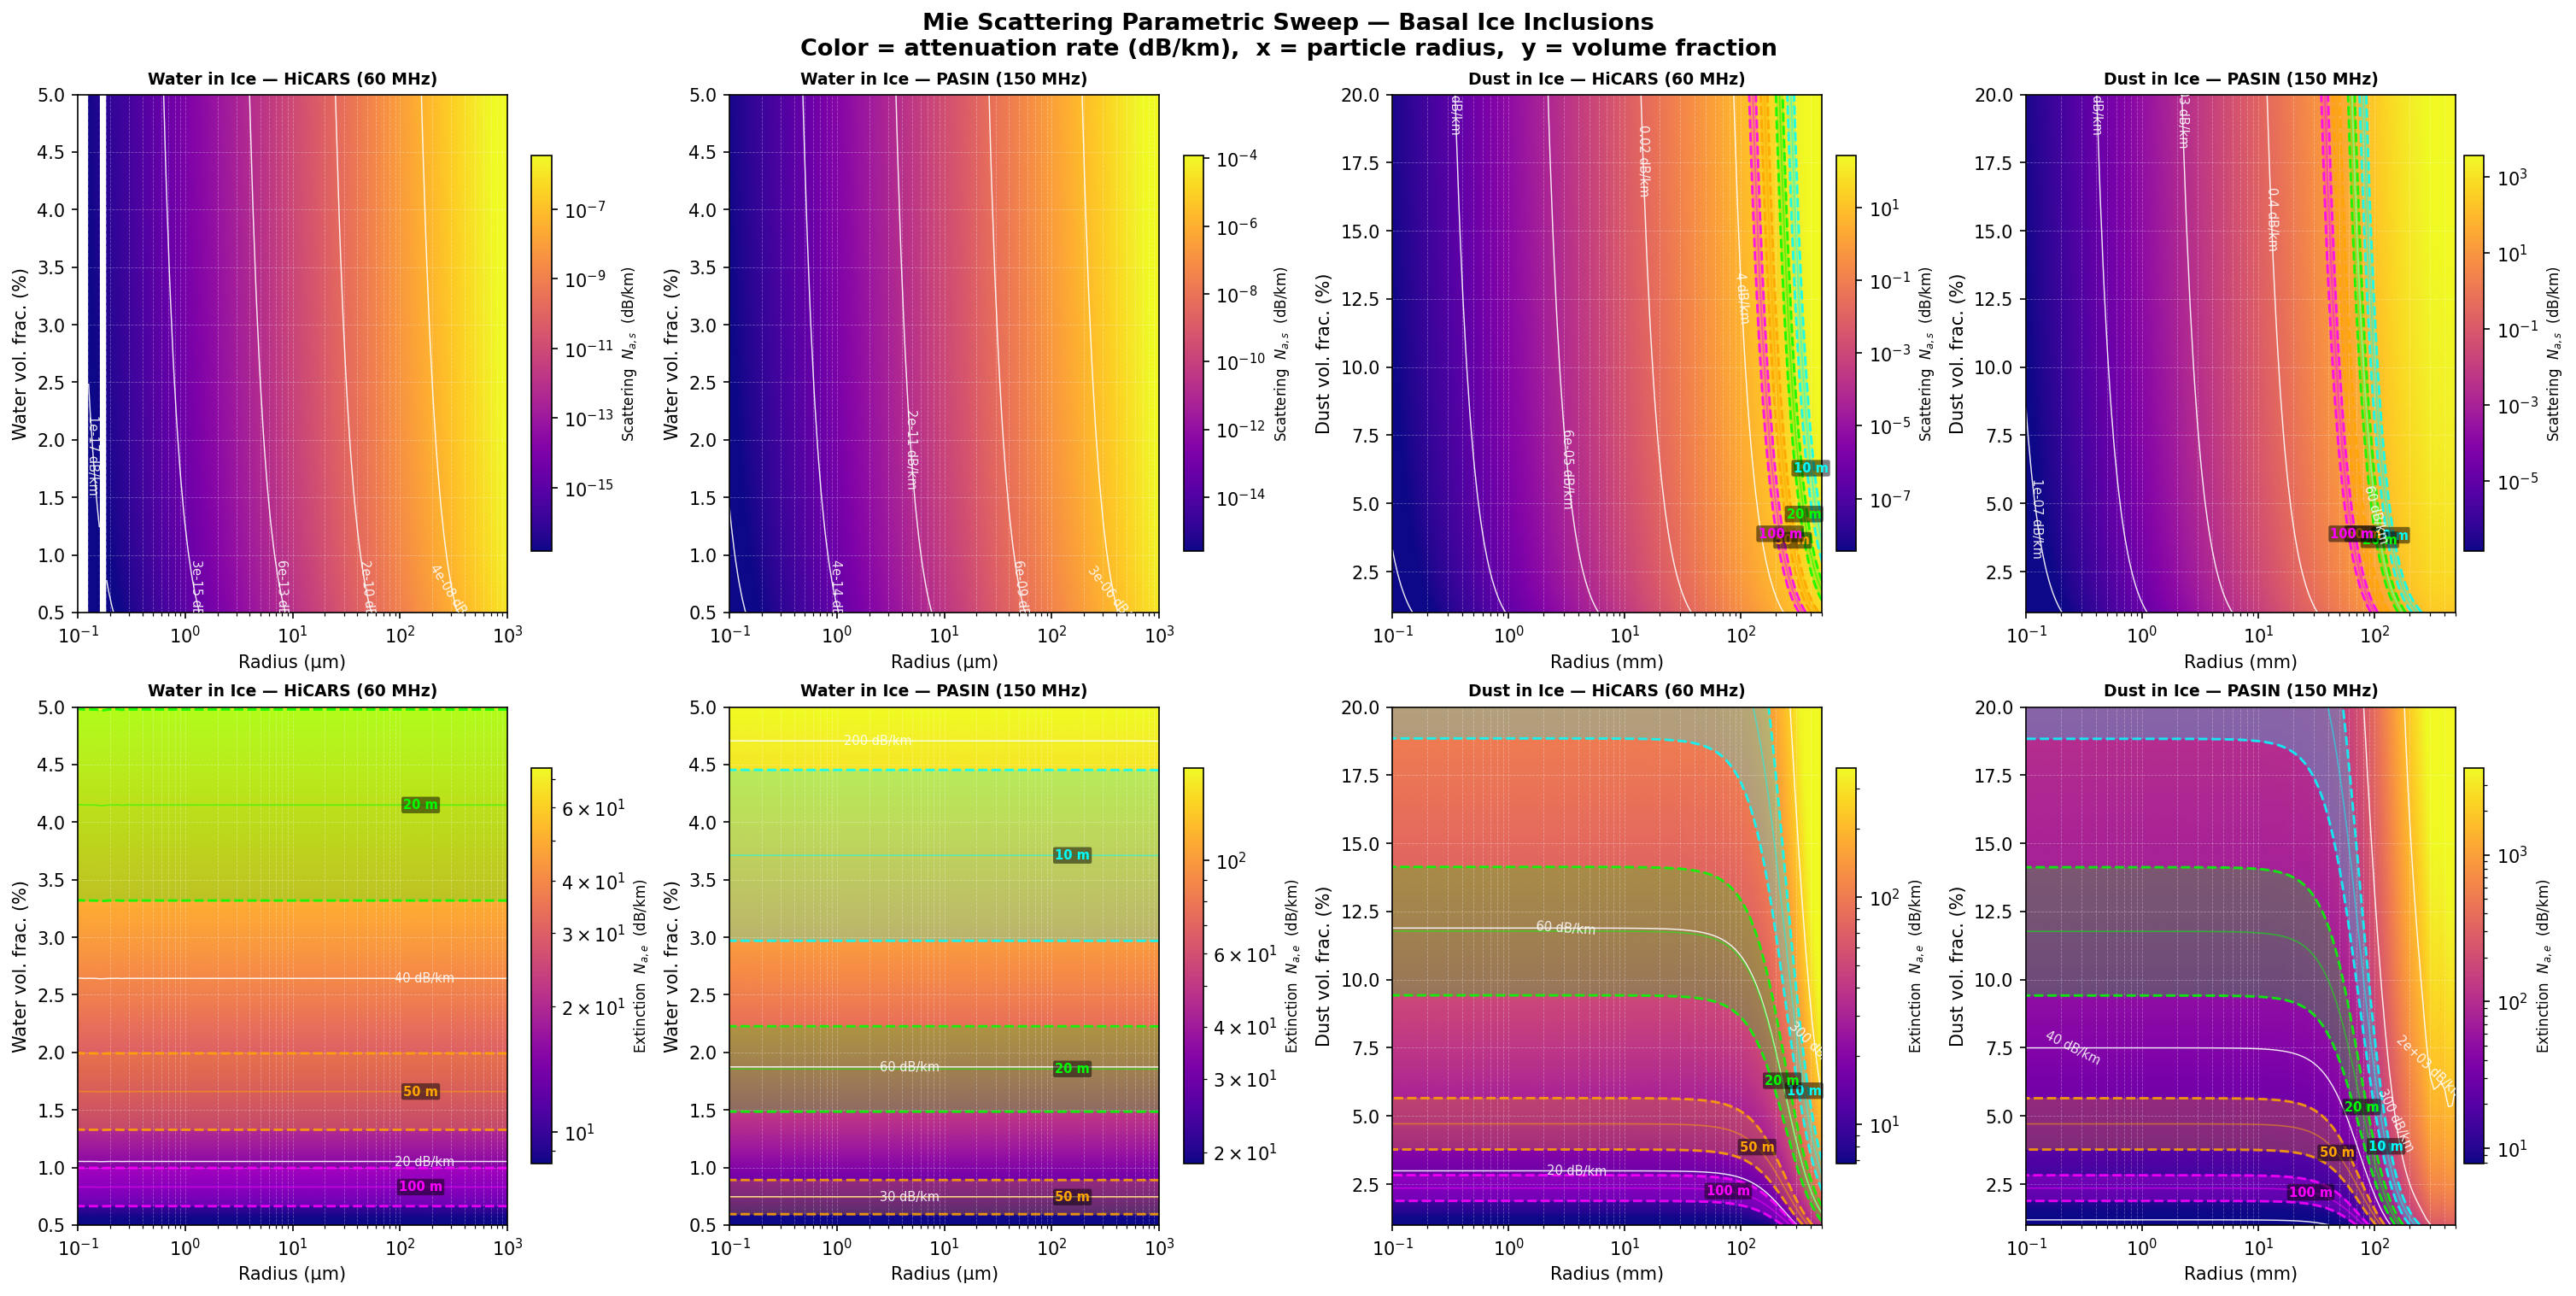
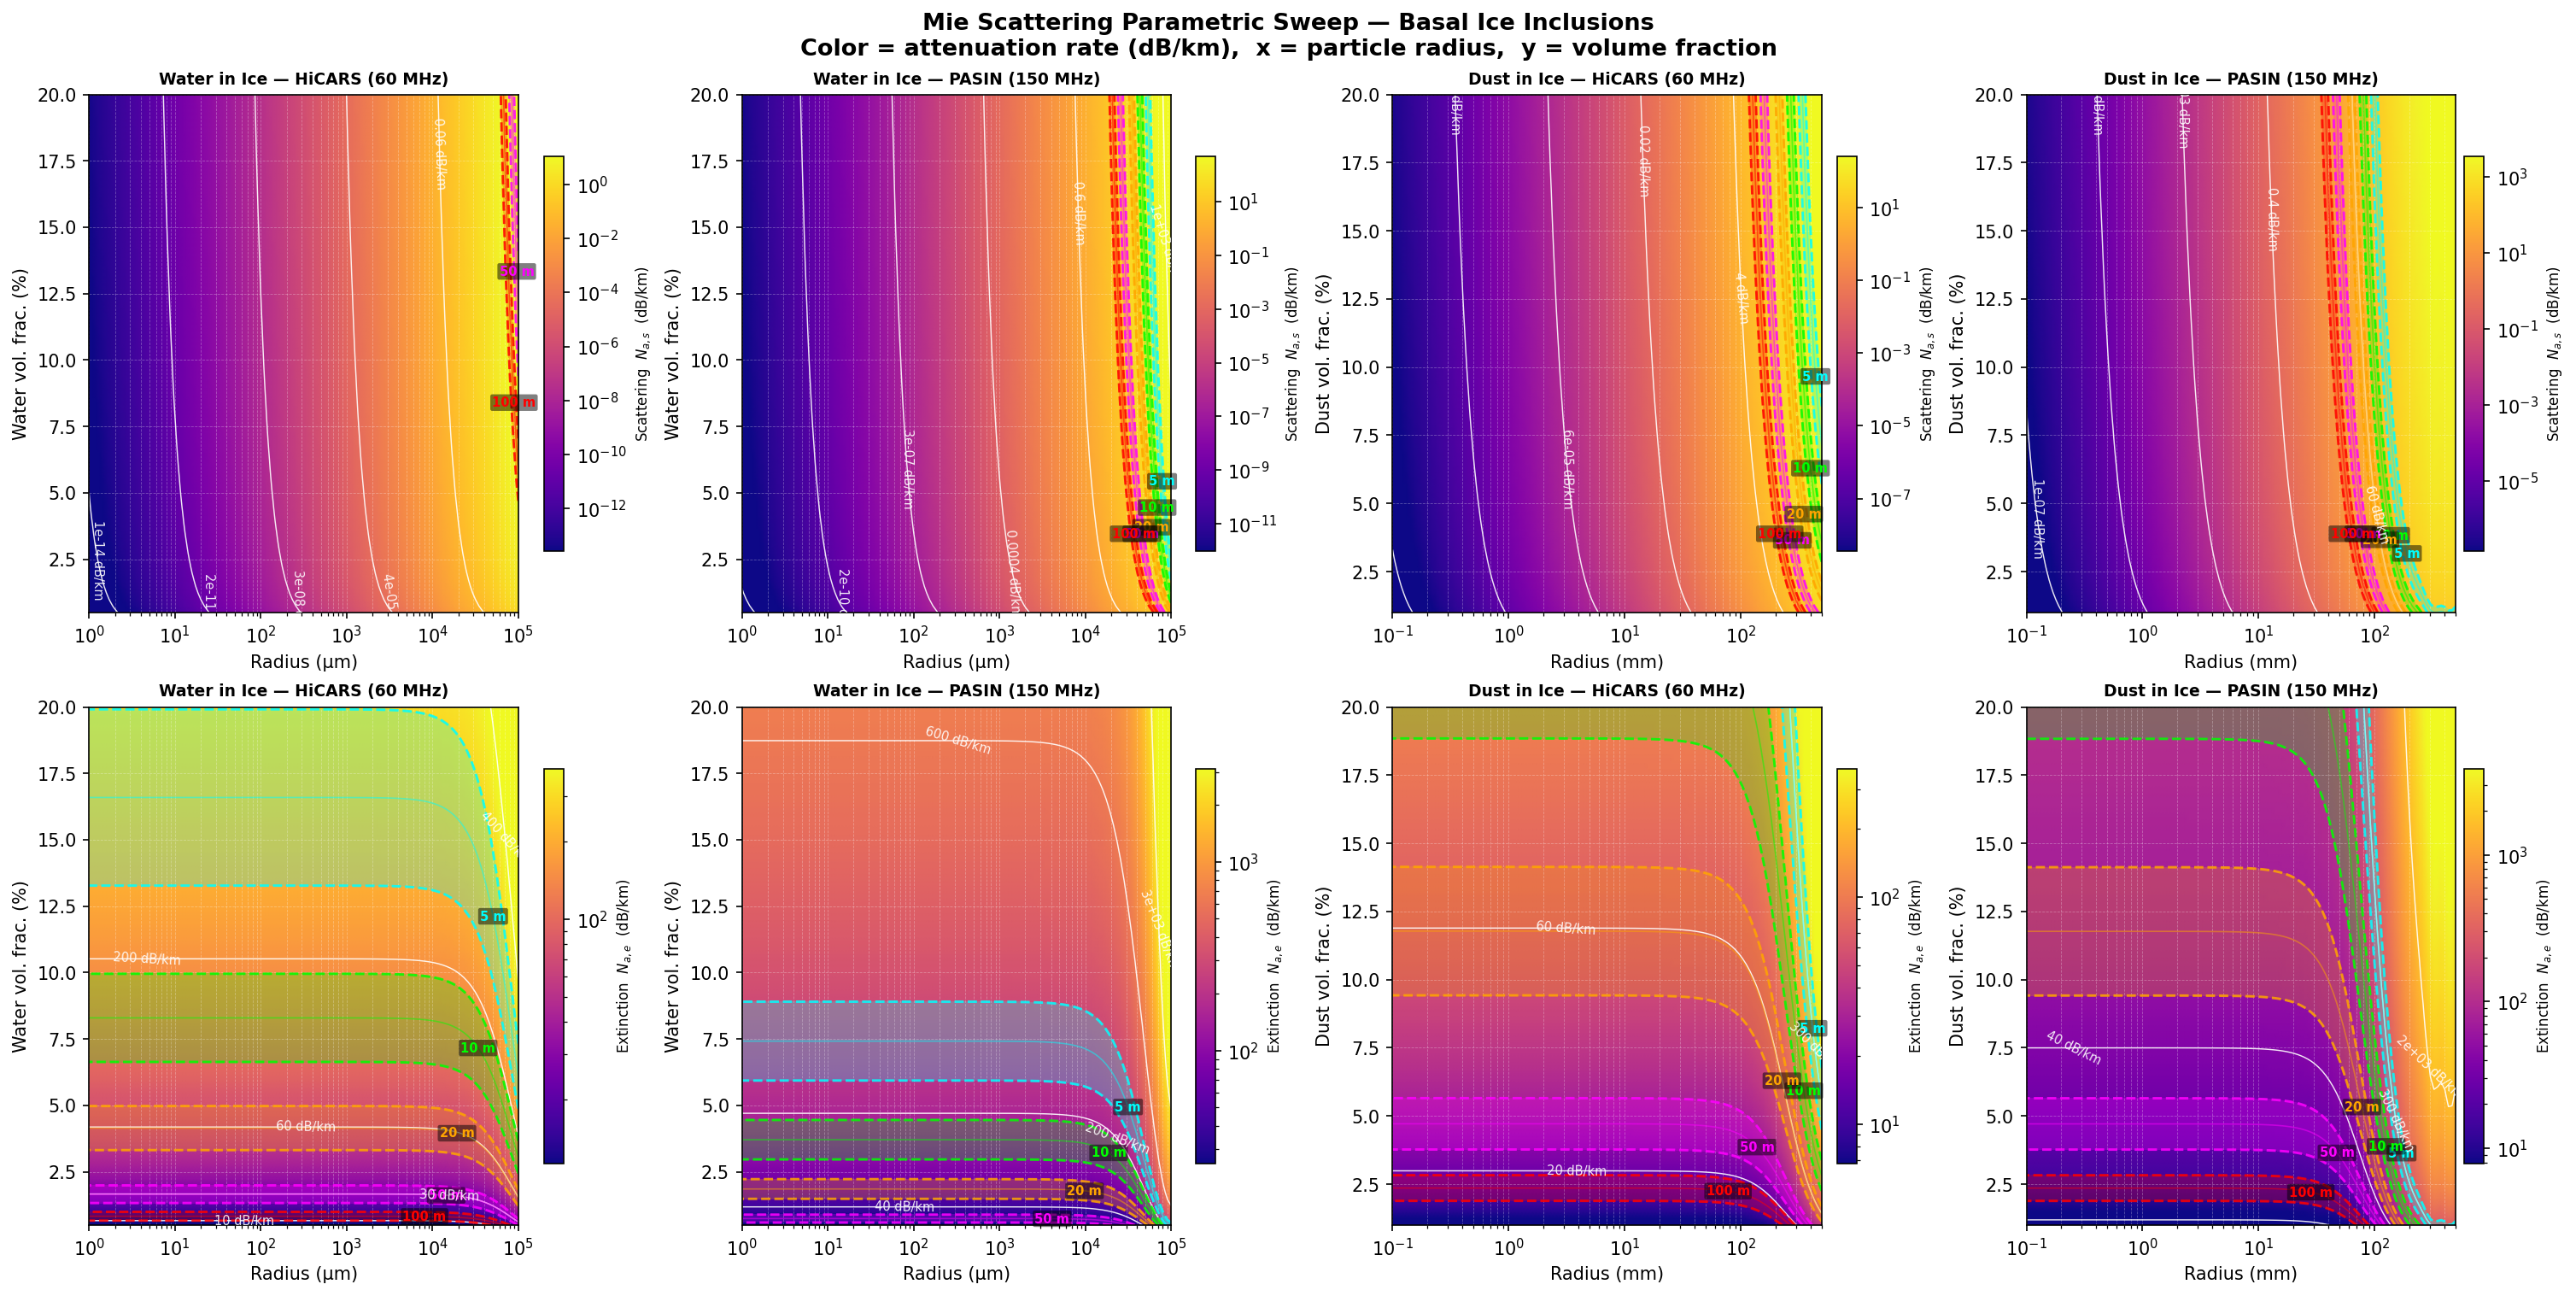
adding plotting class and updated extinction plot

diff --git a/src/utilities.py b/src/utilities.py
@@ -35,6 +35,198 @@ def shape_check(X, mean, std):
             f"Shape mismatch: X={X.shape} is not compatible with "
             f"mean/std={mean.shape}. Expected X.shape[-1] == mean.shape[-1]."
         )
+    
+
+
+
+def load_ase_datasets(verbose=True):
+    """
+    Load and regrid all standard Amundsen Sea Embayment (ASE) datasets onto the ASE coordinate grid
+    (defined by the basal temperature posterior_mean_Tb.tif).
+
+    Datasets prepared
+    -----------------
+    Geometry   : ice thickness (H), bed topography (bed), surface topography (sdem)
+    Thermal    : pressure-melting point (Tpmp), basal temperature (Tb)
+    Kinematics : surface velocity magnitude + components (vel, vx, vy)
+    Slope      : surface slope magnitude + components (slope_mag, slope_x, slope_y)
+
+    Returns
+    -------
+    dict with keys:
+        coords  : dict(X, Y, xs, ys)          – 2-D meshgrid + 1-D axes
+        H       : ice thickness                (m)
+        bed     : bed topography               (m)
+        sdem    : surface topography           (m)
+        Tb      : basal temperature            (K)
+        Tpmp    : pressure-melting point       (K)
+        dTpmp   : Tpmp - Tb                    (K)  positive = below melting
+        vel     : velocity magnitude           (m/yr)
+        vx      : x-component of velocity     (m/yr)
+        vy      : y-component of velocity     (m/yr)
+        slope_mag : surface slope magnitude   (m/m)
+        slope_x   : slope in x-direction      (m/m)
+        slope_y   : slope in y-direction      (m/m)
+    """
+    import os
+    import scipy.io as sio
+    import xarray as xr
+    from scipy.interpolate import RegularGridInterpolator
+
+    # ─────────────────────────────────────────────────────────────────
+    # 0.  Paths  (edit here if anything moves)
+    # ─────────────────────────────────────────────────────────────────
+    BASE   = '/home/donglaiyang/Documents/Georgia-Tech/Research'
+
+    PATHS = dict(
+        bedmap  = os.path.join(BASE, 'common-data-set/bed-topography/bedmap3AIS.nc'),
+        vel_mag = os.path.join(BASE, 'common-data-set/velocity/antarctica_ice_velocity_450m_v2.nc'),
+        H_mat   = os.path.join(BASE,
+                    'thermal-model/Amundsen-thermal-output-Yang/'
+                    'thermal-training-data/Thwaites-PIG/training/gridded/'
+                    'H_gridded.mat'),
+        coord   = os.path.join(BASE,
+                    'thermal-model/Amundsen-thermal-output-Yang/'
+                    'thermal-training-data/Thwaites-PIG/training/gridded/'
+                    'trainingAll_image_coord.mat'),
+        domain_mask = os.path.join(BASE,
+                    'thermal-model/Amundsen-thermal-output-Yang/thermal-training-data/Thwaites-PIG/training/gridded/',
+                    'training_mask_domain_continuous.mat')
+
+    )
+
+    # ─────────────────────────────────────────────────────────────────
+    # 1.  Helper utilities
+    # ─────────────────────────────────────────────────────────────────
+    def _world_grid(src):
+        """1-D axes + 2-D meshgrid from an open rasterio dataset."""
+        cols = np.arange(src.width)
+        rows = np.arange(src.height)
+        xs = np.array([src.xy(0, c)[0] for c in cols])
+        ys = np.array([src.xy(r, 0)[1] for r in rows])
+        X, Y = np.meshgrid(xs, ys)
+        return X, Y, xs, ys
+
+    def _make_interp(ys_src, xs_src, data):
+        """
+        Build a RegularGridInterpolator, flipping axes to ascending order
+        if the source grid is descending (standard rasterio convention).
+        """
+        if ys_src[0] > ys_src[-1]:
+            return RegularGridInterpolator(
+                (ys_src[::-1], xs_src), data[::-1, :],
+                method='linear', bounds_error=False, fill_value=np.nan)
+        return RegularGridInterpolator(
+            (ys_src, xs_src), data,
+            method='linear', bounds_error=False, fill_value=np.nan)
+
+    def _regrid(ys_src, xs_src, data, Y_tgt, X_tgt):
+        """Interpolate data onto target (Y_tgt, X_tgt) meshgrid."""
+        fn  = _make_interp(ys_src, xs_src, data)
+        pts = np.column_stack([Y_tgt.ravel(), X_tgt.ravel()])
+        return fn(pts).reshape(X_tgt.shape)
+
+    def _log(msg):
+        if verbose:
+            print(f'  [load_ase_datasets] {msg}')
+
+    # ─────────────────────────────────────────────────────────────────
+    # 2.  reference coordinates
+    # ─────────────────────────────────────────────────────────────────
+    _log('Loading reference coordinates …')
+    coord_data = sio.loadmat(PATHS['coord'])
+    xs = coord_data['training_coord']['xs'][0][0].flatten()
+    ys = coord_data['training_coord']['ys'][0][0].flatten()
+    X, Y = np.meshgrid(xs, ys)
+
+    out = dict(coords=dict(X=X, Y=Y, xs=xs, ys=ys))
+
+    # ─────────────────────────────────────────────────────────────────
+    # 3.  Bedmap3  →  H, bed, sdem  (crop + regrid)
+    # ─────────────────────────────────────────────────────────────────
+    _log('Loading Bedmap3 …')
+    buffer = 50_000   # 50 km padding around ASE domain
+
+    x_min, x_max = xs.min(), xs.max()
+    y_min, y_max = ys.min(), ys.max()
+
+    bm = xr.open_dataset(PATHS['bedmap'], engine='netcdf4')
+    bm_x = bm['x'].values
+    bm_y = bm['y'].values
+
+    mx = (bm_x >= x_min - buffer) & (bm_x <= x_max + buffer)
+    my = (bm_y >= y_min - buffer) & (bm_y <= y_max + buffer)
+
+    x_crop = bm_x[mx]
+    y_crop = bm_y[my]
+
+    def _bm_crop_regrid(var_name):
+        arr = bm[var_name].values[np.ix_(my, mx)].astype(np.float64)
+        return _regrid(y_crop, x_crop, arr, Y, X)
+
+    out['sdem'] = _bm_crop_regrid('surface_topography')
+    out['bed']  = _bm_crop_regrid('bed_topography')
+    out['H']    = _bm_crop_regrid('ice_thickness')
+    bm.close()
+
+    # ─────────────────────────────────────────────────────────────────
+    # 4.  Pressure-melting point
+    # ─────────────────────────────────────────────────────────────────
+    _log('Computing Tpmp …')
+    BETA = 9.8e-8   # K Pa⁻¹  Clausius–Clapeyron
+    RHO  = 917.0    # kg m⁻³  ice density
+    G    = 9.81     # m s⁻²
+
+    out['Tpmp']  = 273.15 - BETA * RHO * G * out['H']
+
+    # ─────────────────────────────────────────────────────────────────
+    # 5.  Surface slope  (from sdem on the ASE grid)
+    # ─────────────────────────────────────────────────────────────────
+    _log('Computing surface slope …')
+    # np.gradient respects non-uniform spacing when axes are supplied
+    slope_y, slope_x = np.gradient(out['sdem'], ys, xs)
+    out['slope_x']   = slope_x
+    out['slope_y']   = slope_y
+    out['slope_mag'] = np.sqrt(slope_x**2 + slope_y**2)
+
+    # ─────────────────────────────────────────────────────────────────
+    # 6.  Ice velocity  (MEaSUREs / ITSLIVE NetCDF)
+    # ─────────────────────────────────────────────────────────────────
+    _log('Loading velocity …')
+    vel_ds  = xr.open_dataset(PATHS['vel_mag'], engine='netcdf4')
+
+    # ── normalise variable names across products ──────────────────
+    # MEaSUREs Phase Map uses 'VX'/'VY'; ITSLIVE uses 'vx'/'vy'
+    vx_key = 'VX' if 'VX' in vel_ds else 'vx'
+    vy_key = 'VY' if 'VY' in vel_ds else 'vy'
+    x_key  = 'x'  if 'x'  in vel_ds.coords else 'X'
+    y_key  = 'y'  if 'y'  in vel_ds.coords else 'Y'
+
+    vel_x_raw = vel_ds[x_key].values
+    vel_y_raw = vel_ds[y_key].values
+
+    mvx = (vel_x_raw >= x_min - buffer) & (vel_x_raw <= x_max + buffer)
+    mvy = (vel_y_raw >= y_min - buffer) & (vel_y_raw <= y_max + buffer)
+
+    vx_crop = vel_ds[vx_key].values[np.ix_(mvy, mvx)].astype(np.float64)
+    vy_crop = vel_ds[vy_key].values[np.ix_(mvy, mvx)].astype(np.float64)
+
+    out['vx']  = _regrid(vel_y_raw[mvy], vel_x_raw[mvx], vx_crop, Y, X)
+    out['vy']  = _regrid(vel_y_raw[mvy], vel_x_raw[mvx], vy_crop, Y, X)
+    out['vel'] = np.sqrt(out['vx']**2 + out['vy']**2)
+    vel_ds.close()
+
+    # ─────────────────────────────────────────────────────────────────
+    # 7.  domain mask
+    # ─────────────────────────────────────────────────────────────────
+    _log('Loading domain mask …')
+    mask_data = sio.loadmat(PATHS['domain_mask'])
+    mask = mask_data['in_domain_mask']
+    out['mask'] = mask
+    # no need to interpolate; domain mask was saved with coord
+
+    _log('All datasets ready.')
+    return out
 
 
 def reverse_standardize(X, mean, std, method='standard', epsilon=None):

diff --git a/src/plotting.py b/src/plotting.py
@@ -11,9 +11,13 @@ import xarray as xr
 from scipy.interpolate import RegularGridInterpolator
 
 class Plotting:
-    def __init__(self):
-        self.epsg     = 3031 # antarctic polar stereographic
-        self.proj     = ccrs.SouthPolarStereo()
+    def __init__(self, region='Antarctica'):
+        if region == 'Antarctica':
+            self.epsg     = 3031 # antarctic polar stereographic
+            self.proj     = ccrs.SouthPolarStereo()
+        if region == 'Greenland':
+            self.epsg     = 3413 # greenland polar stereographic
+            self.proj     = ccrs.NorthPolarStereo()
         self.data_crs = ccrs.epsg(self.epsg)
         pass
 
@@ -27,10 +31,13 @@ class Plotting:
     def define_extent(self, x, y):
         self.x_min, self.x_max = np.min(x), np.max(x)
         self.y_min, self.y_max = np.min(y), np.max(y)
+        if x.ndim == 2:
+            x = x.ravel()
+        if y.ndim == 2:
+            y = y.ravel()
         self.x = x
         self.y = y
-        return 
-    
+
     def make_consistent(self, data_dict):
         """
         Check coordinate. If not consistent, interpolate
@@ -49,7 +56,7 @@ class Plotting:
             data_dict['y'] = self.y
         return data_dict
 
-    def plot(self, data, background):
+    def plot(self, data, background, layout=None):
         """ 
         Create (multipanel) plot
         
@@ -57,6 +64,8 @@ class Plotting:
             data to be plotted. Tuple to accommodate multiple subplots
         background: dict
             background data (e.g., hillshade) to be plotted in all subplots
+        layout: tuple (nrows, ncols), optional
+            subplot grid shape. Defaults to (1, n_panels) if not specified.
             
         both data and background are composed of dict with keys 
             'x', 'y', 'data', 
@@ -64,57 +73,83 @@ class Plotting:
             'contour_data','contour_levels','contour_colors',
             'title','cb_label'
             if one of the option is not needed, it should be None
-
-
-        As of June 7, 2026, we only plot 1 row 
         """
 
         n_panels = len(data)
 
+        # ── resolve layout ────────────────────────────────────────────
+        if layout is None:
+            nrows, ncols = 1, n_panels
+        else:
+            nrows, ncols = layout
+            assert nrows * ncols >= n_panels, (
+                f"layout {layout} has only {nrows*ncols} cells but {n_panels} panels were provided."
+            )
 
-        fig, axes = plt.subplots(1, n_panels,
-            figsize=(5 * n_panels, 6),                      
+        fig, axes = plt.subplots(
+            nrows, ncols,
+            figsize=(5 * ncols, 6 * nrows),
             subplot_kw={'projection': self.proj}
         )
 
-        # if one figure, make axes iterable
-        if n_panels == 1:
-            axes = [axes]
+        # flatten axes to a 1-D list regardless of layout shape
+        axes_flat = np.array(axes).flatten().tolist()
 
-        for ax, d in zip(axes, data):
-            # first ensure input data are defined on the same coordinate system. 
+        for ax, d in zip(axes_flat, data):
+            # first ensure input data are defined on the same coordinate system
             d = self.make_consistent(d)
 
             self._setup_ax(ax, background)
             im0 = ax.imshow(
                 d['data'],
-                origin='lower',
                 extent=[self.x_min, self.x_max, self.y_min, self.y_max],
                 transform=self.data_crs,
-                cmap=d.get('cmap', 'viridis'),                         
+                cmap=d.get('cmap', 'viridis'),
                 alpha=1, zorder=1,
-                vmin=d.get('vmin'), vmax=d.get('vmax')
+                vmin=d.get('vmin'), vmax=d.get('vmax'),
+                origin='lower'
             )
             ax.set_title(d.get('title'))
             ax.set_aspect('equal')
+
             # add colorbar
-            fig.colorbar(im0, ax=ax, fraction=0.046, pad=0.04,
+            cb = fig.colorbar(im0, ax=ax, fraction=0.046, pad=0.04,
                         label=d.get('cb_label', ''))
-            # add dT contour
+            # make color bar label fontsize bigger
+            cb.set_label(d.get('cb_label', ''), fontsize=14)
+            cb.ax.tick_params(labelsize=12)
+
+            # add contour
             if d.get('contour_data') is not None:
                 x, y = np.meshgrid(d['x'], d['y'])
-                cs1 = ax.contour(
+                ax.contour(
                     x, y, d['contour_data'],
                     levels=d.get('contour_levels'),
                     colors=d.get('contour_colors', 'white'),
                     linewidths=1,
                     transform=self.data_crs,
-                    zorder=2
+                    zorder=2,
+                    origin='lower'
                 )
-        # tight layout
+
+            # add boundary
+            if d.get('boundary_data') is not None:
+                bx, by = d['boundary_data']
+                y_center = (self.y_min + self.y_max) / 2
+                by_fixed = 2 * y_center - by
+                ax.plot(
+                    bx, by_fixed,
+                    color='black', linewidth=0.8,
+                    transform=self.data_crs, zorder=4,
+                )
+
+        # hide any unused axes (e.g. 2x3 layout with 5 panels)
+        for ax in axes_flat[n_panels:]:
+            ax.set_visible(False)
+
         plt.tight_layout()
-        
-        return 
+        return
+
     def _setup_ax(self, ax, background):
 
         ax.set_extent([self.x_min, self.x_max, self.y_min, self.y_max], crs=self.data_crs)
@@ -137,7 +172,7 @@ class Plotting:
         # Hillshade (shared background)
         ax.imshow(
             background['data'],
-            origin='upper',
+            origin='lower',
             extent=[self.x_min, self.x_max, self.y_min, self.y_max],
             transform=self.data_crs,
             cmap=background.get('cmap', 'gist_earth'), alpha=0.6, zorder=0

diff --git a/src/model.py b/src/model.py
@@ -118,6 +118,7 @@ class model:
         self.ndim_ori = self.nx * self.ny * self.n_channel
         self.n_channel = X.shape[2]
         self.n_samples_total = X.shape[3]
+        colormap = 'RdBu'
 
         if show_plot:
             random_indices = np.random.choice(self.n_samples_total, size=5, replace=False)
@@ -128,7 +129,7 @@ class model:
                 X_plot = X[:, :, :, idx].copy()
                 if domain_mask is not None:
                     X_plot[domain_mask == False] = np.nan # set the values outside the model boundary to NaN for better visualization
-                plt.imshow(X_plot, cmap='viridis', vmin = -2, vmax = 2)
+                plt.imshow(X_plot, cmap=colormap, vmin = -2, vmax = 2)
                 plt.gca().invert_yaxis()
                 plt.gca().axis('off')
                 plt.title(f'X Sample {idx}')
@@ -139,7 +140,7 @@ class model:
                 if domain_mask is not None:
                     Y_plot[domain_mask == False] = np.nan
                 
-                plt.imshow(Y_plot, cmap='viridis', vmin=-2, vmax=2)
+                plt.imshow(Y_plot, cmap=colormap, vmin=-2, vmax=2)
                 plt.gca().invert_yaxis()
                 plt.gca().axis('off')
                 plt.title(f'Y Sample {idx}')